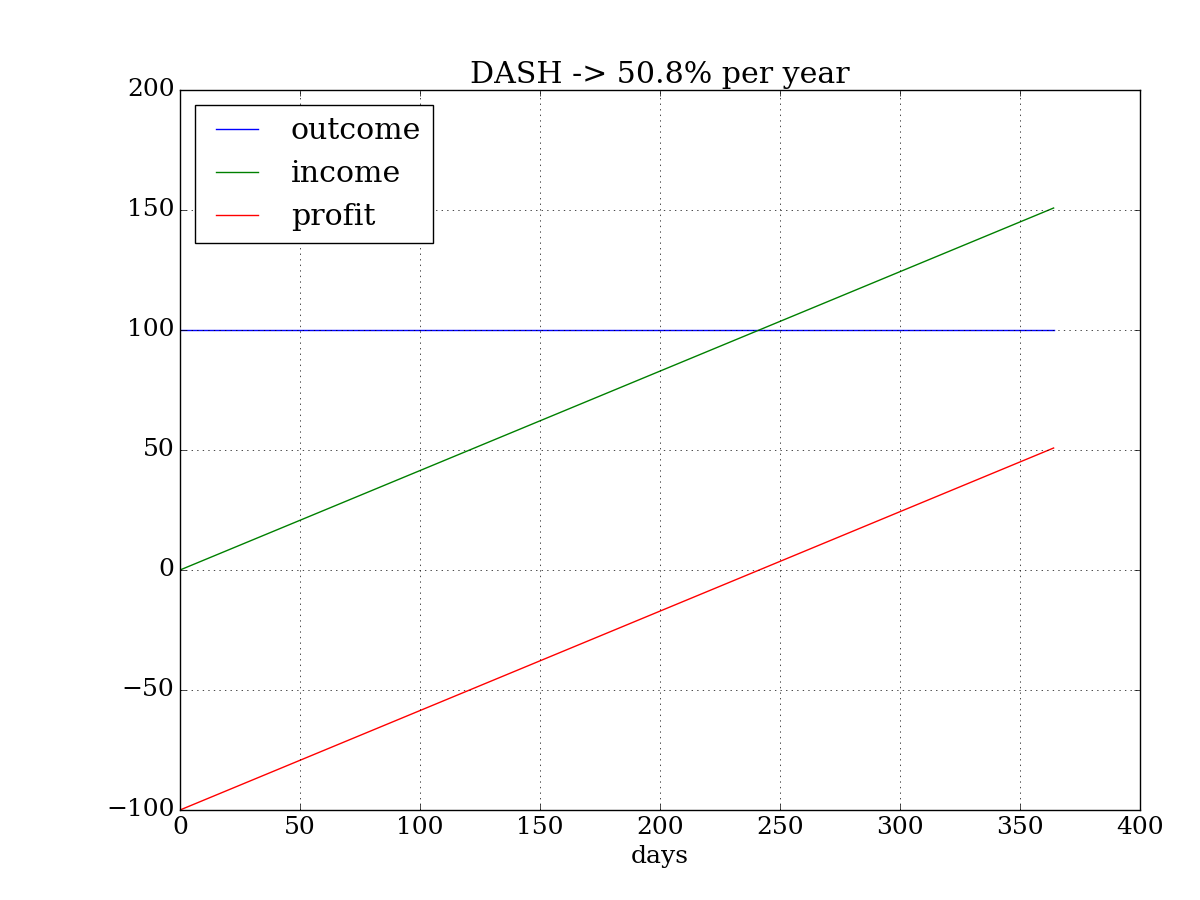
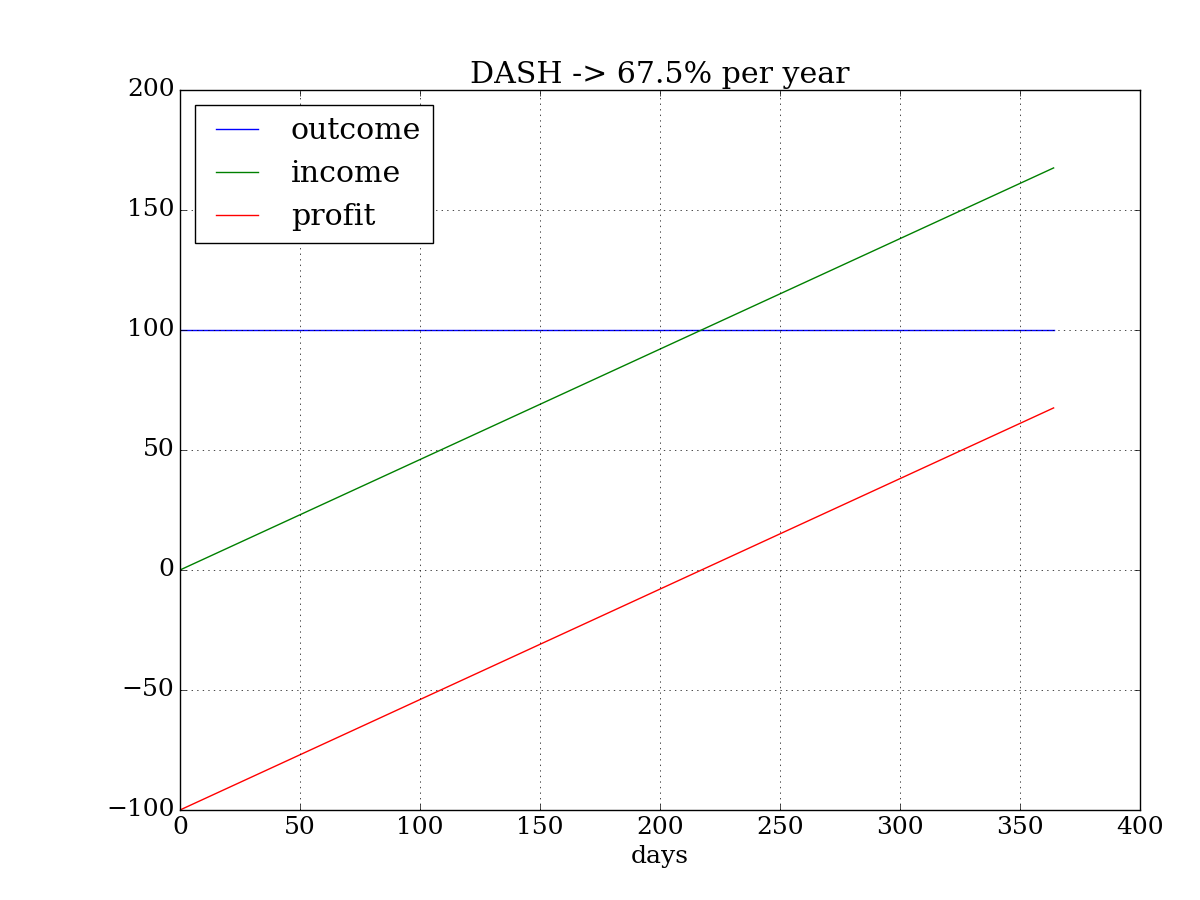
cloud mine compare

diff --git a/mine2.py b/mine2.py
@@ -11,69 +11,28 @@ import pylab as py
 import requests
 import yaml
 
+import pandas as pd
+
 TODAY = time.strftime("%y%m%d")
 
-CFG = yaml.load(open("investing.yml.example"))
+CFG = yaml.load(open("investing.yml"))
+
+CURRENCY = CFG["Coins"].keys()  #["BTC", "LTC", "ETH", "DASH", "ZEC"]
+MINING = CFG["Mining"].keys()  #["HF", "GM"]
+qty = len(CURRENCY) * len(MINING)
 
 URL_BASE = "https://api.coinmarketcap.com/v1/ticker/"
 records = {"BTC": 
-               {"API": URL_BASE + "bitcoin",
-                "price": 0,
-                "mining": # https://alloscomp.com/bitcoin/calculator
-                    {
-                    "MINE" : 1.2,          # USD per 10GH/s
-                    "MAINT" : 0.0035,      # USD fee per 10GH/s per day
-                    "COINS" : 353 * 1e-8,  # satoshi per day for 10GH/s for current difficulty
-                    "IN": CFG['BTC']       # USD investing
-                    }
-                },
+               {"API": URL_BASE + "bitcoin"},
             "LTC": 
-                {"API": URL_BASE + "litecoin",
-                 "price": 0,
-                 "mining": # http://www.coinwarz.com/calculators/litecoin-mining-calculator/
-                     {
-                     "MINE" : 13.5,     # USD per 1 MH/s
-                     "MAINT" : 0.01,    # USD fee per 1 MH/s per day
-                     "COINS" : 0.002067,  # coins per day
-                     "IN": CFG['LTC']     # USD investing
-                     }
-                },
+                {"API": URL_BASE + "litecoin"},
             "ETH": 
-                {"API": URL_BASE + "ethereum",
-                 "price": 0,
-                 "mining": # https://etherscan.io/ether-mining-calculator
-                     {
-                     "MINE" : 2.2,      # USD per 100 KH/s
-                     "MAINT" : 0,
-                     "COINS" : 4.3849 * 1e-5, # coins per day
-                     "IN": CFG['ETH']        # USD investing
-                     }
-                 },
+                {"API": URL_BASE + "ethereum"},
             "DASH": 
-                {"API": URL_BASE + "dash",
-                 "price": 0,
-                 "mining": # http://www.coinwarz.com/calculators/litecoin-mining-calculator/
-                     {
-                     "MINE" : 5.8,      # USD per 1 MH/s
-                     "MAINT" : 0,
-                     "COINS" : 0.00013255, # coins per day
-                     "IN": CFG['DASH']        # USD investing
-                     }
-                },
+                {"API": URL_BASE + "dash"},
             "ZEC": 
-                {"API": URL_BASE + "zcash",
-                 "price": 0,
-                 "mining": # https://www.coinwarz.com/calculators/zcash-mining-calculator/
-                     {
-                     "MINE" : 2.0,      # USD per 0.1 H/s
-                     "MAINT" : 0,
-                     "COINS" : 0.00000257, # coins per day
-                     "IN": CFG['ZEC']        # USD investing
-                     }
-                }
+                {"API": URL_BASE + "zcash"}
 }
-
-CURRENCY = ["BTC", "LTC", "ETH", "DASH", "ZEC"]
 
 print("Getting ex-rates...\n")
 # BTC/USD rate
@@ -84,8 +43,19 @@ if rep.status_code == 200:
 # Ex-rates in BTC
 for cur in CURRENCY:
     rep = requests.get(records[cur]["API"])
+    records[cur].update(price=0)
     if rep.status_code == 200:
         records[cur]["price"] = float(rep.json()[0]["price_btc"])
+
+# Get mining data from config
+for cur in CURRENCY:
+    for mine in MINING:
+        records[cur].update(mine={})
+        miner = {
+             "MINE" : CFG["Mining"][mine][cur]["mine"],
+             "MAINT" : CFG["Mining"][mine][cur]["maint"]
+        }
+        records[cur][mine] = miner
 
 reporting = "BTC_USD: %s USD\n" % BTC_USD
 for cur in CURRENCY:
@@ -106,51 +76,75 @@ def income(ddays, coins, exrate, unit):
     ''' Revenue '''
     return BTC_USD * (coins * unit * exrate) * ddays
 
-os.mkdir("img" + TODAY)
+try:
+    os.mkdir("img" + TODAY)
+except:
+    print("Could not create %s" % ("img" + TODAY))
+
 num = 0
 DAYS = 365 * 1
+col = ["currency", "mining", "invest", "revenue", "maintance", "profit",
+               "return", "percent"]
+table = pd.DataFrame([], columns=col, index=range(qty))
 
 for cur in CURRENCY:
-    print("Calculating %s..." % cur)
-    data = records[cur]["mining"]
-    units = data["IN"] / data["MINE"]
-    fee = data["MAINT"] * units  # per day
+    for mine in MINING:
+        print("Calculating %s %s..." % (cur, mine))
 
-    profit = []
-    inc = []
-    out = []
+        table.loc[num]["currency"] = cur
+        table.loc[num]["mining"] = mine
 
-    reporting += "\n" + cur
-    for day in range(DAYS):
-        out.append(outcome(day, fee, data["IN"]))
-        inc.append(income(day, data["COINS"], records[cur]["price"], units))
-        profit.append(inc[day] - out[day])
+        data = records[cur][mine]
+        investing = CFG["Investing"][cur]
+        table.loc[num]["invest"] = investing
+        units = investing / data["MINE"]
+        fee = data["MAINT"] * units  # per day
+        print("Units %.1f / Fee %s" % (units, fee))
 
-        if (profit[day-1] < 0) and (profit[day] >= 0):
-            reporting += " return in " + str(day) + " days"
+        profit = []
+        inc = []
+        out = []
 
-        if day == (DAYS - 1):
-            pro = "%.1f" % (profit[day] / data["IN"] * 100)
-            reporting += TEMPL % (data["IN"], day,
-                                  inc[day],
-                                  out[day] - data["IN"],
-                                  profit[day],
-                                  profit[day] / data["IN"] * 100
-                                 )
+        reporting += "\n %s %s" % (cur, mine) 
+        for day in range(DAYS):
+            out.append(outcome(day, fee, investing))
+            inc.append(income(day, CFG["Coins"][cur], records[cur]["price"], units))
+            profit.append(inc[day] - out[day])
 
-    py.figure(num)
-    py.title(cur + " -> " + pro + "% per year")
-    py.xlabel("days")
-    py.plot(out, label="outcome")
-    py.plot(inc, label="income")
-    py.plot(profit, label="profit")
-    py.legend(loc="best")
-    #py.show()
-    py.savefig("./img" + TODAY +"/" + cur + ".png")
-    num += 1
+            if (profit[day-1] < 0) and (profit[day] >= 0):
+                roi = day/30
+                reporting += " return in %.1f monthes" % roi
+                table.loc[num]["return"] = roi
+
+            if day == (DAYS - 1):
+                calc = ""
+                pro = "%.1f" % (profit[day] / investing  * 100)
+                calc = TEMPL % (investing, day,
+                                inc[day],
+                                out[day] - investing,
+                                profit[day],
+                                profit[day] / investing * 100
+                                )
+                #print(calc)
+                reporting += calc
+                table.loc[num]["revenue"] = inc[day]
+                table.loc[num]["maintance"] = out[day] - investing
+                table.loc[num]["profit"] = profit[day]
+                table.loc[num]["percent"] = profit[day] / investing * 100
+
+        py.figure(num)
+        py.title(cur + "_" + mine + " -> " + pro + "% per year")
+        py.xlabel("days")
+        py.plot(out, label="outcome")
+        py.plot(inc, label="income")
+        py.plot(profit, label="profit")
+        py.legend(loc="best")
+        #py.show()
+        py.savefig("./img" + TODAY +"/" + cur + "_" + mine + ".png")
+        num += 1
 
 with open("report" + TODAY + ".txt", "w") as FILE:
     FILE.write(reporting)
 
-print(reporting)
-
+#print(reporting)
+print(table.sort(["percent"]))

diff --git a/README.md b/README.md
@@ -44,7 +44,7 @@ Cloud mining proposal consists of the mining cost and maintenance fee for offere
 
 Below is shown calculation graph examples for 100 USD investment for each of considerate currency. The "outcome" line presents our expenses growth per day from 100 USD initial payment for hash rate power. Our revenue presented by "income" line. The "profit" line is the difference between "income" and "outcome". Since the cost for mined coins are higher than maintenance fee, the income is increasing faster that outcome. When income line cross outcome line, the profit changed to positive - it is a point of investment return.
 
-The Ethereum looks more profitable now and have no maintenance fee, but ETH contract is limited to only 1 year. Important! Ethereum blockchain will probably switch from PoW to PoS algorithm till the end of 2017, so mining turned off and investment now will not returned. The BTC and LTC contracts are unlimited and will continue to generate profit. Keep in mind that network mining complexity is constantly increasing and hash rate power you've bought will not cover maintenance fee in future. In that case only coins exchange rate growth could compensate your investment.
+The Ethereum looks more profitable now and have no maintenance fee, but ETH contract is limited to only 1 year. Important! Ethereum blockchain will probably switch from PoW to PoS algorithm till the end of 2017, so mining turned off and investment may not returned. The BTC and LTC contracts are unlimited and will continue to generate profit. Keep in mind that network mining complexity is constantly increasing and hash rate power you've bought will not cover maintenance fee in future. In that case only coins exchange rate growth could compensate your investment.
 
 ![BTC](./img170630/BTC.png)
 
